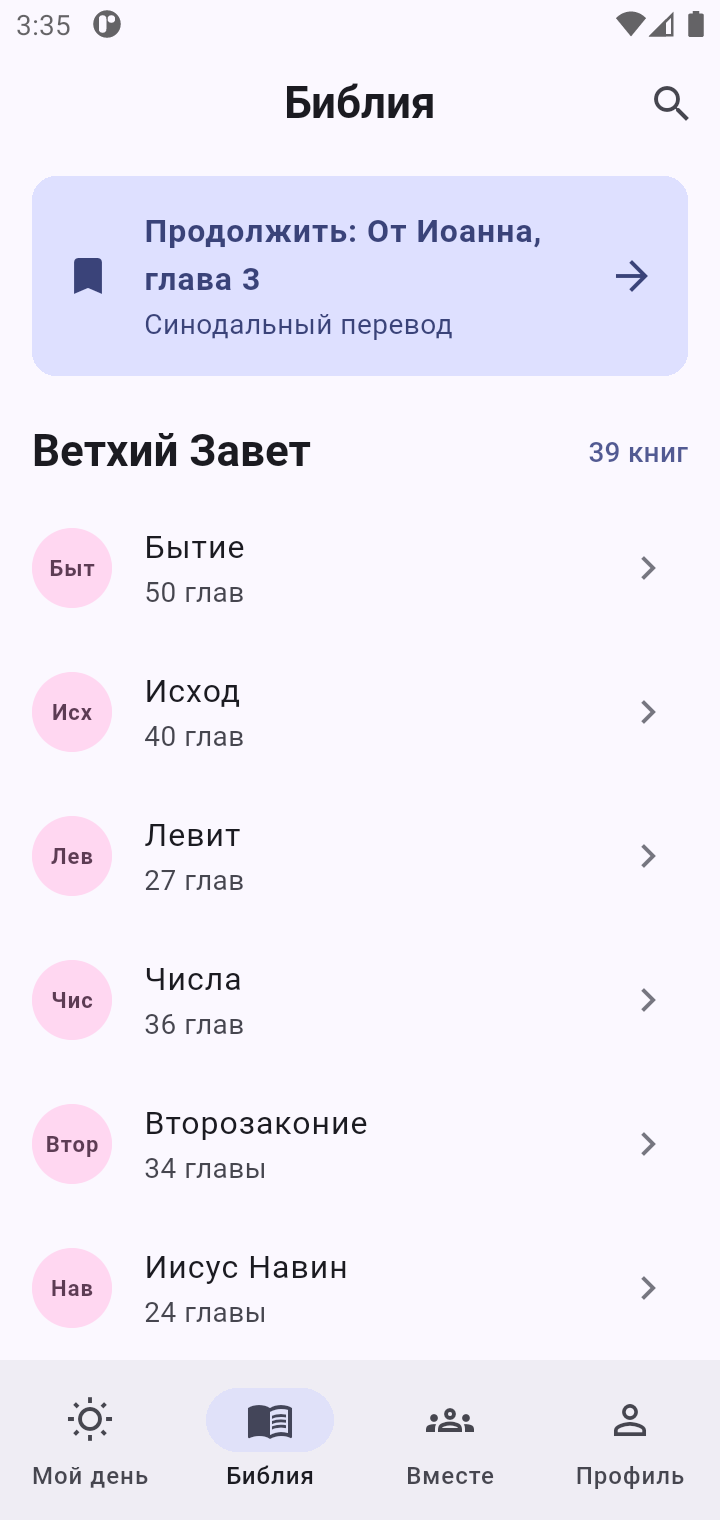
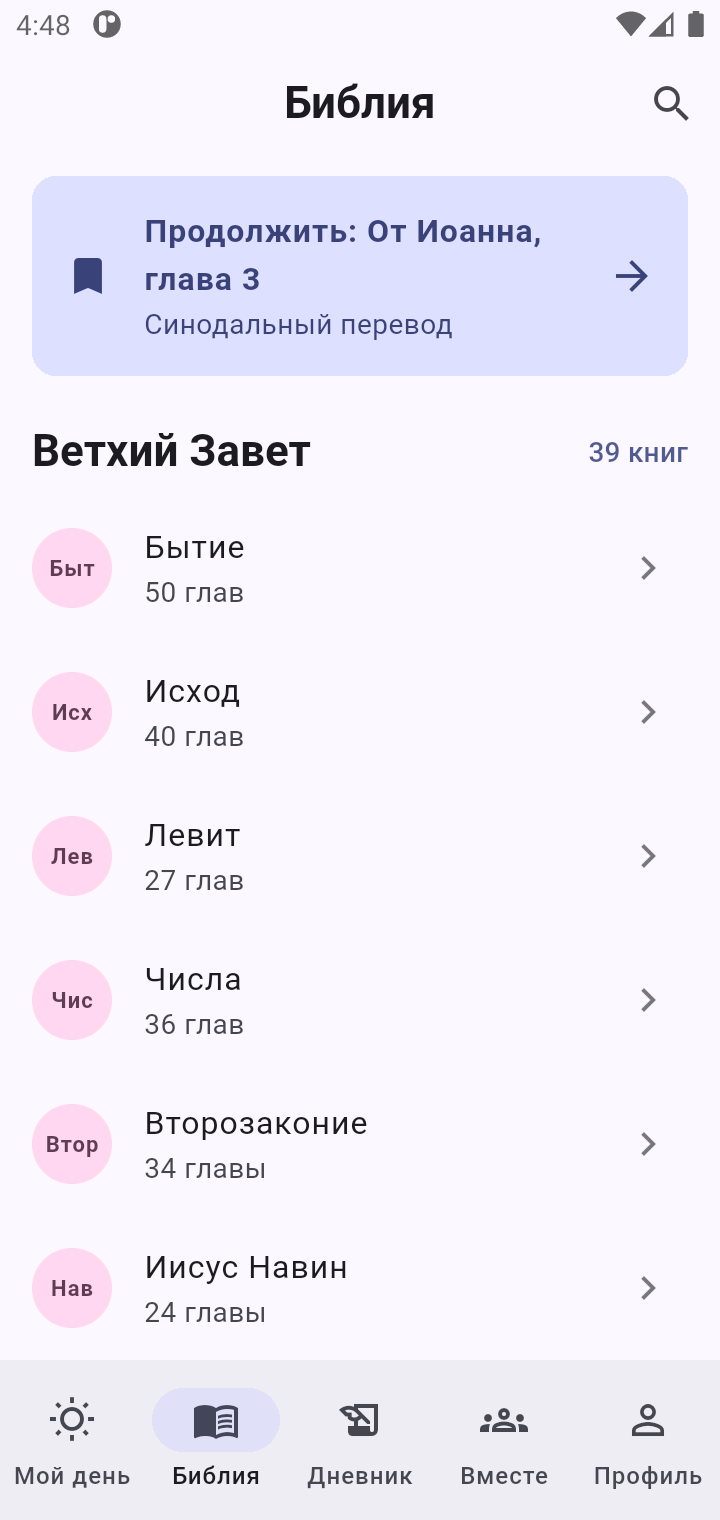
Списки на ListView.builder, тёмная тема на скриншотах, README проекта

diff --git a/lib/screens/bible_screen.dart b/lib/screens/bible_screen.dart
@@ -15,12 +15,9 @@ class BibleScreen extends StatelessWidget {
 
   @override
   Widget build(BuildContext context) {
-    final scheme = Theme.of(context).colorScheme;
-    final oldBooks =
-        MockData.books.where((b) => b.testament == Testament.old).toList();
-    final newBooks = MockData.books
-        .where((b) => b.testament == Testament.newTestament)
-        .toList();
+    const books = MockData.books;
+    final oldCount = books.where((b) => b.testament == Testament.old).length;
+    final newCount = books.length - oldCount;
 
     return Scaffold(
       appBar: AppBar(
@@ -36,60 +33,79 @@ class BibleScreen extends StatelessWidget {
           ),
         ],
       ),
-      body: ListView(
+      // ListView.builder строит строки лениво — только видимые из 66 книг.
+      // Элемент 0 — карточка «Продолжить», дальше — книги.
+      body: ListView.builder(
         padding: const EdgeInsets.only(bottom: AppConstants.paddingLarge),
-        children: [
-          Card(
-            elevation: 0,
-            color: scheme.primaryContainer,
-            margin: const EdgeInsets.fromLTRB(
-              AppConstants.paddingMedium,
-              AppConstants.paddingSmall,
-              AppConstants.paddingMedium,
-              0,
-            ),
-            child: ListTile(
-              contentPadding: const EdgeInsets.symmetric(
-                horizontal: AppConstants.paddingMedium,
-                vertical: AppConstants.paddingSmall,
+        itemCount: books.length + 1,
+        itemBuilder: (context, i) {
+          if (i == 0) return const _ContinueReadingCard();
+
+          final book = books[i - 1];
+          final tile = BookTile(book: book, onTap: () {});
+
+          // Заголовок завета ставим перед первой книгой каждого завета.
+          final startsTestament =
+              i == 1 || books[i - 2].testament != book.testament;
+          if (!startsTestament) return tile;
+
+          final isOld = book.testament == Testament.old;
+          return Column(
+            crossAxisAlignment: CrossAxisAlignment.stretch,
+            children: [
+              SectionHeader(
+                title: isOld ? 'Ветхий Завет' : 'Новый Завет',
+                trailing: '${isOld ? oldCount : newCount} книг',
               ),
-              leading: Icon(
-                Icons.bookmark,
-                color: scheme.onPrimaryContainer,
-              ),
-              title: Text(
-                'Продолжить: ${MockData.lastReadBook}, '
-                'глава ${MockData.lastReadChapter}',
-                style: TextStyle(
-                  color: scheme.onPrimaryContainer,
-                  fontWeight: FontWeight.w600,
-                ),
-              ),
-              subtitle: Text(
-                MockData.translation,
-                style: TextStyle(color: scheme.onPrimaryContainer),
-              ),
-              trailing: Icon(
-                Icons.arrow_forward,
-                color: scheme.onPrimaryContainer,
-              ),
-              onTap: () => Navigator.push(
-                context,
-                MaterialPageRoute(builder: (_) => const ChapterScreen()),
-              ),
-            ),
+              tile,
+            ],
+          );
+        },
+      ),
+    );
+  }
+}
+
+/// Карточка «Продолжить чтение» — открывает главу, где остановился читатель.
+class _ContinueReadingCard extends StatelessWidget {
+  const _ContinueReadingCard();
+
+  @override
+  Widget build(BuildContext context) {
+    final scheme = Theme.of(context).colorScheme;
+
+    return Card(
+      elevation: 0,
+      color: scheme.primaryContainer,
+      margin: const EdgeInsets.fromLTRB(
+        AppConstants.paddingMedium,
+        AppConstants.paddingSmall,
+        AppConstants.paddingMedium,
+        0,
+      ),
+      child: ListTile(
+        contentPadding: const EdgeInsets.symmetric(
+          horizontal: AppConstants.paddingMedium,
+          vertical: AppConstants.paddingSmall,
+        ),
+        leading: Icon(Icons.bookmark, color: scheme.onPrimaryContainer),
+        title: Text(
+          'Продолжить: ${MockData.lastReadBook}, '
+          'глава ${MockData.lastReadChapter}',
+          style: TextStyle(
+            color: scheme.onPrimaryContainer,
+            fontWeight: FontWeight.w600,
           ),
-          SectionHeader(
-            title: 'Ветхий Завет',
-            trailing: '${oldBooks.length} книг',
-          ),
-          for (final book in oldBooks) BookTile(book: book, onTap: () {}),
-          SectionHeader(
-            title: 'Новый Завет',
-            trailing: '${newBooks.length} книг',
-          ),
-          for (final book in newBooks) BookTile(book: book, onTap: () {}),
-        ],
+        ),
+        subtitle: Text(
+          MockData.translation,
+          style: TextStyle(color: scheme.onPrimaryContainer),
+        ),
+        trailing: Icon(Icons.arrow_forward, color: scheme.onPrimaryContainer),
+        onTap: () => Navigator.push(
+          context,
+          MaterialPageRoute(builder: (_) => const ChapterScreen()),
+        ),
       ),
     );
   }

diff --git a/lib/screens/diary_screen.dart b/lib/screens/diary_screen.dart
@@ -22,53 +22,65 @@ class DiaryScreen extends StatelessWidget {
         icon: const Icon(Icons.history_edu),
         label: const Text('Новая запись'),
       ),
-      body: ListView(
+      // ListView.builder: элемент 0 — вход в Скинию, 1 — заголовок,
+      // дальше — записи дневника.
+      body: ListView.builder(
         // Нижний отступ, чтобы FAB не закрывал последнюю запись.
         padding: const EdgeInsets.only(bottom: 88),
-        children: [
-          Card(
-            elevation: 0,
-            color: scheme.secondaryContainer,
-            margin: const EdgeInsets.fromLTRB(
-              AppConstants.paddingMedium,
-              AppConstants.paddingSmall,
-              AppConstants.paddingMedium,
-              0,
-            ),
-            child: ListTile(
-              contentPadding: const EdgeInsets.symmetric(
-                horizontal: AppConstants.paddingMedium,
-                vertical: AppConstants.paddingSmall,
+        itemCount: entries.length + 2,
+        itemBuilder: (context, i) {
+          if (i == 0) {
+            return Card(
+              elevation: 0,
+              color: scheme.secondaryContainer,
+              margin: const EdgeInsets.fromLTRB(
+                AppConstants.paddingMedium,
+                AppConstants.paddingSmall,
+                AppConstants.paddingMedium,
+                0,
               ),
-              leading: CircleAvatar(
-                backgroundColor: scheme.secondary,
-                child: Icon(Icons.lock, color: scheme.onSecondary),
-              ),
-              title: Text(
-                'Скиния',
-                style: TextStyle(
+              child: ListTile(
+                contentPadding: const EdgeInsets.symmetric(
+                  horizontal: AppConstants.paddingMedium,
+                  vertical: AppConstants.paddingSmall,
+                ),
+                leading: CircleAvatar(
+                  backgroundColor: scheme.secondary,
+                  child: Icon(Icons.lock, color: scheme.onSecondary),
+                ),
+                title: Text(
+                  'Скиния',
+                  style: TextStyle(
+                    color: scheme.onSecondaryContainer,
+                    fontWeight: FontWeight.w600,
+                  ),
+                ),
+                subtitle: Text(
+                  'Личные записи · ${MockData.tabernacleEntries.length} · '
+                  'вход по паролю',
+                  style: TextStyle(color: scheme.onSecondaryContainer),
+                ),
+                trailing: Icon(
+                  Icons.chevron_right,
                   color: scheme.onSecondaryContainer,
-                  fontWeight: FontWeight.w600,
+                ),
+                onTap: () => Navigator.push(
+                  context,
+                  MaterialPageRoute(
+                    builder: (_) => const TabernacleLockScreen(),
+                  ),
                 ),
               ),
-              subtitle: Text(
-                'Личные записи · ${MockData.tabernacleEntries.length} · '
-                'вход по паролю',
-                style: TextStyle(color: scheme.onSecondaryContainer),
-              ),
-              trailing: Icon(
-                Icons.chevron_right,
-                color: scheme.onSecondaryContainer,
-              ),
-              onTap: () => Navigator.push(
-                context,
-                MaterialPageRoute(builder: (_) => const TabernacleLockScreen()),
-              ),
-            ),
-          ),
-          SectionHeader(title: 'Мои записи', trailing: '${entries.length}'),
-          for (final entry in entries) DiaryEntryCard(entry: entry),
-        ],
+            );
+          }
+          if (i == 1) {
+            return SectionHeader(
+              title: 'Мои записи',
+              trailing: '${entries.length}',
+            );
+          }
+          return DiaryEntryCard(entry: entries[i - 2]);
+        },
       ),
     );
   }

diff --git a/lib/screens/tabernacle_screen.dart b/lib/screens/tabernacle_screen.dart
@@ -29,28 +29,31 @@ class TabernacleScreen extends StatelessWidget {
         icon: const Icon(Icons.history_edu),
         label: const Text('Личная запись'),
       ),
-      body: ListView(
+      // Элемент 0 — подсказка о приватности, дальше — записи.
+      body: ListView.builder(
         padding: const EdgeInsets.only(bottom: 88),
-        children: [
-          Padding(
-            padding: const EdgeInsets.all(AppConstants.paddingMedium),
-            child: Row(
-              children: [
-                Icon(Icons.visibility_off, size: 18, color: scheme.secondary),
-                const SizedBox(width: AppConstants.paddingSmall),
-                Expanded(
-                  child: Text(
-                    'Эти записи видны только вам',
-                    style: Theme.of(context).textTheme.bodyMedium?.copyWith(
-                      color: scheme.onSurfaceVariant,
+        itemCount: entries.length + 1,
+        itemBuilder: (context, i) {
+          if (i == 0) {
+            return Padding(
+              padding: const EdgeInsets.all(AppConstants.paddingMedium),
+              child: Row(
+                children: [
+                  Icon(Icons.visibility_off, size: 18, color: scheme.secondary),
+                  const SizedBox(width: AppConstants.paddingSmall),
+                  Expanded(
+                    child: Text(
+                      'Эти записи видны только вам',
+                      style: Theme.of(context).textTheme.bodyMedium
+                          ?.copyWith(color: scheme.onSurfaceVariant),
                     ),
                   ),
-                ),
-              ],
-            ),
-          ),
-          for (final entry in entries) DiaryEntryCard(entry: entry),
-        ],
+                ],
+              ),
+            );
+          }
+          return DiaryEntryCard(entry: entries[i - 1]);
+        },
       ),
     );
   }

diff --git a/README.md b/README.md
@@ -1,17 +1,45 @@
-# bibly_app
+# Bibly
 
-A new Flutter project.
+Мобильное приложение для ежедневного чтения Библии, дневника и совместного
+чтения с друзьями. Учебный проект по дисциплине «Программирование мобильных
+приложений» (PAM), Flutter + Material 3.
 
-## Getting Started
+## Состояние: ЛР2 — статический UI
 
-This project is a starting point for a Flutter application.
+Все экраны построены как статический макет с данными, зашитыми в код
+(`lib/data/mock_data.dart`). Навигация — минимальная (`NavigationBar` +
+`Navigator.push`), без валидации, состояния и бэкенда — они появятся в ЛР3–ЛР5.
 
-A few resources to get you started if this is your first Flutter project:
+| Экран | Файл |
+|-------|------|
+| Вход | `lib/screens/login_screen.dart` |
+| Мой день | `lib/screens/my_day_screen.dart` |
+| Библия — список книг | `lib/screens/bible_screen.dart` |
+| Чтение главы | `lib/screens/chapter_screen.dart` |
+| Поиск | `lib/screens/search_screen.dart` |
+| Дневник | `lib/screens/diary_screen.dart` |
+| Скиния — вход по паролю | `lib/screens/tabernacle_lock_screen.dart` |
+| Скиния — личные записи | `lib/screens/tabernacle_screen.dart` |
+| Вместе | `lib/screens/together_screen.dart` |
+| Профиль / настройки | `lib/screens/profile_screen.dart` |
 
-- [Learn Flutter](https://docs.flutter.dev/get-started/learn-flutter)
-- [Write your first Flutter app](https://docs.flutter.dev/get-started/codelab)
-- [Flutter learning resources](https://docs.flutter.dev/reference/learning-resources)
+## Структура
 
-For help getting started with Flutter development, view the
-[online documentation](https://docs.flutter.dev/), which offers tutorials,
-samples, guidance on mobile development, and a full API reference.
+```
+lib/
+├── main.dart     — MaterialApp, светлая и тёмная тема, стартовый экран
+├── screens/      — по одному файлу на экран + оболочка с NavigationBar
+├── widgets/      — переиспользуемые виджеты
+├── models/       — классы данных (книга, стих, запись, группа…)
+├── data/         — mock_data.dart: статические данные
+└── utils/        — тема (seed-цвет) и константы отступов
+```
+
+## Запуск
+
+```bash
+flutter pub get
+flutter run
+```
+
+Тесты: `flutter test`.

diff --git a/docs/report/lab2_log.md b/docs/report/lab2_log.md
@@ -215,3 +215,23 @@
   экране прокручивается только список, и переполнения нет.
 - Проверка: `flutter analyze` — без замечаний; 10 тестов пройдены.
 - Скриншот: `screenshots/17_search_android.png`.
+
+### Шаг 14. Финальная проверка требований ЛР2
+- Сверка с заданием (PDF ЛР2):
+  - цвета в `lib/screens` и `lib/widgets` не захардкожены (поиск `Color(` / `Colors.` — пусто);
+  - `StatefulWidget` и `setState` — только в `MainShell` (индекс вкладки);
+  - `Form`, `validator`, `go_router` — не используются;
+  - во всех списках ≥ 6 реалистичных элементов (66 книг, 7 записей Дневника,
+    6 записей Скинии, 6 групп, 7 событий ленты, 7 результатов поиска,
+    8 настроек, 9 стихов главы). План дня — 4 шага по замыслу.
+- По рекомендации задания длинные списки переведены на `ListView.builder`:
+  «Библия» (66 книг; заголовки заветов вставляются перед первой книгой завета),
+  «Дневник», «Скиния». Горизонтальные списки и результаты поиска — `ListView.separated`.
+- Тёмная тема: включён ночной режим эмулятора (`adb shell cmd uimode night yes`) —
+  приложение перекрасилось без изменений в коде, т.к. все цвета берутся из
+  `Theme.of(context).colorScheme`.
+- README заменён описанием проекта.
+- Проверка: `flutter analyze` — без замечаний; 10 тестов пройдены.
+- Скриншоты: `screenshots/18_dark_my_day_android.png`, `screenshots/19_dark_bible_android.png`,
+  `screenshots/20_dark_together_android.png`; пересняты `05_bible_android.png`,
+  `07_diary_android.png`.
